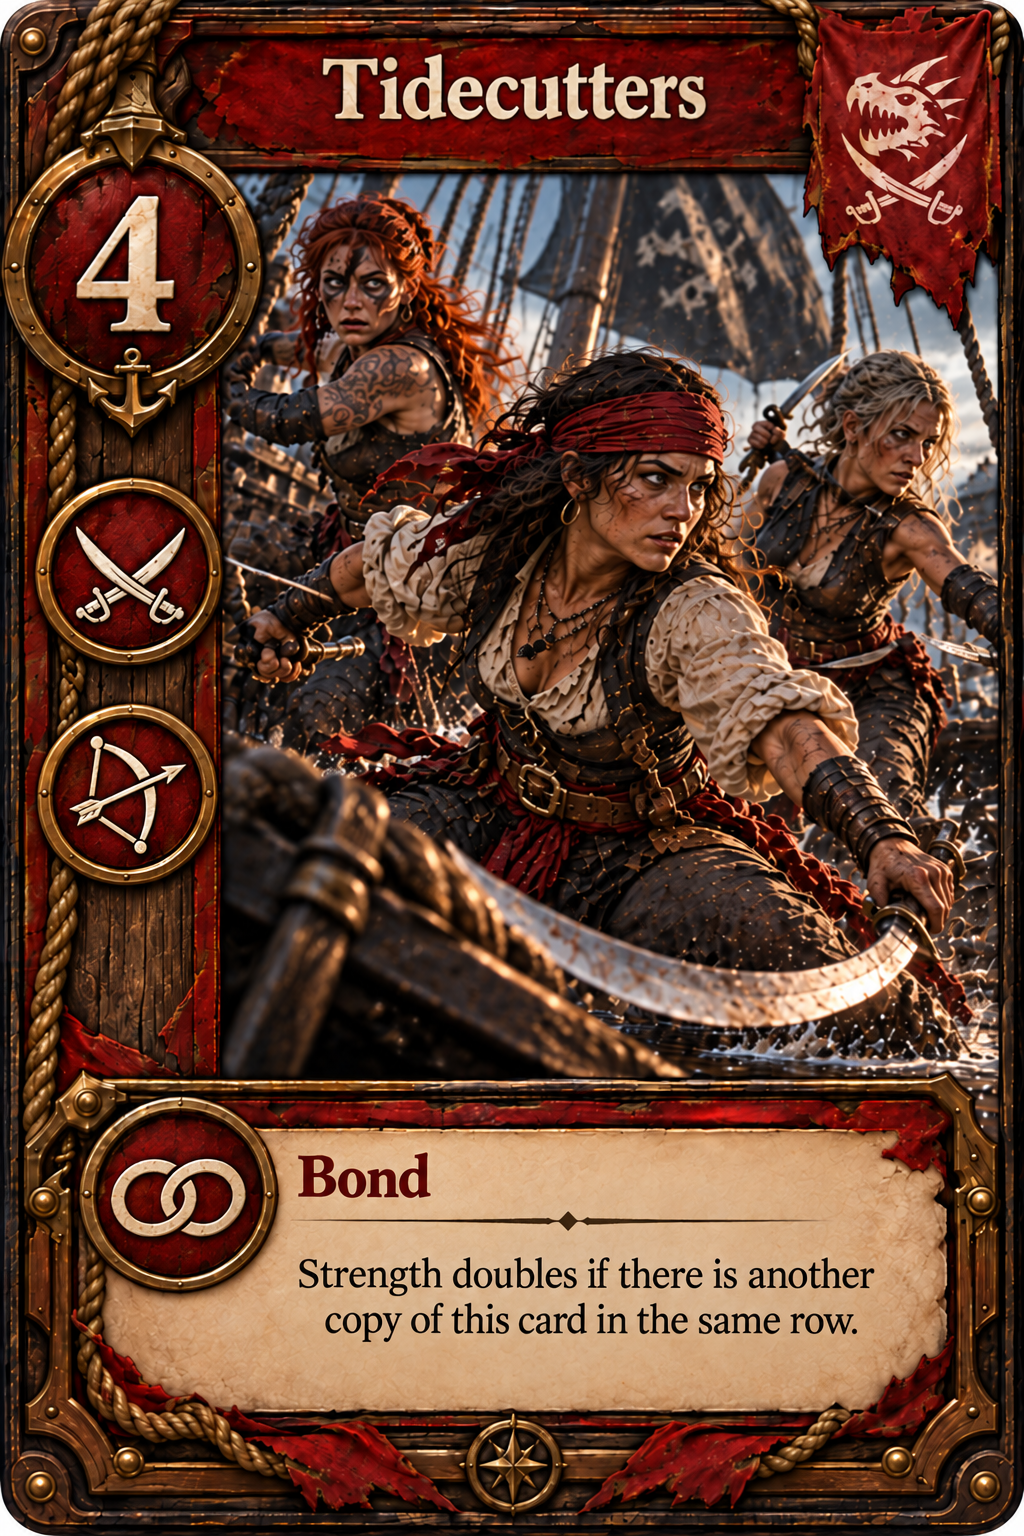
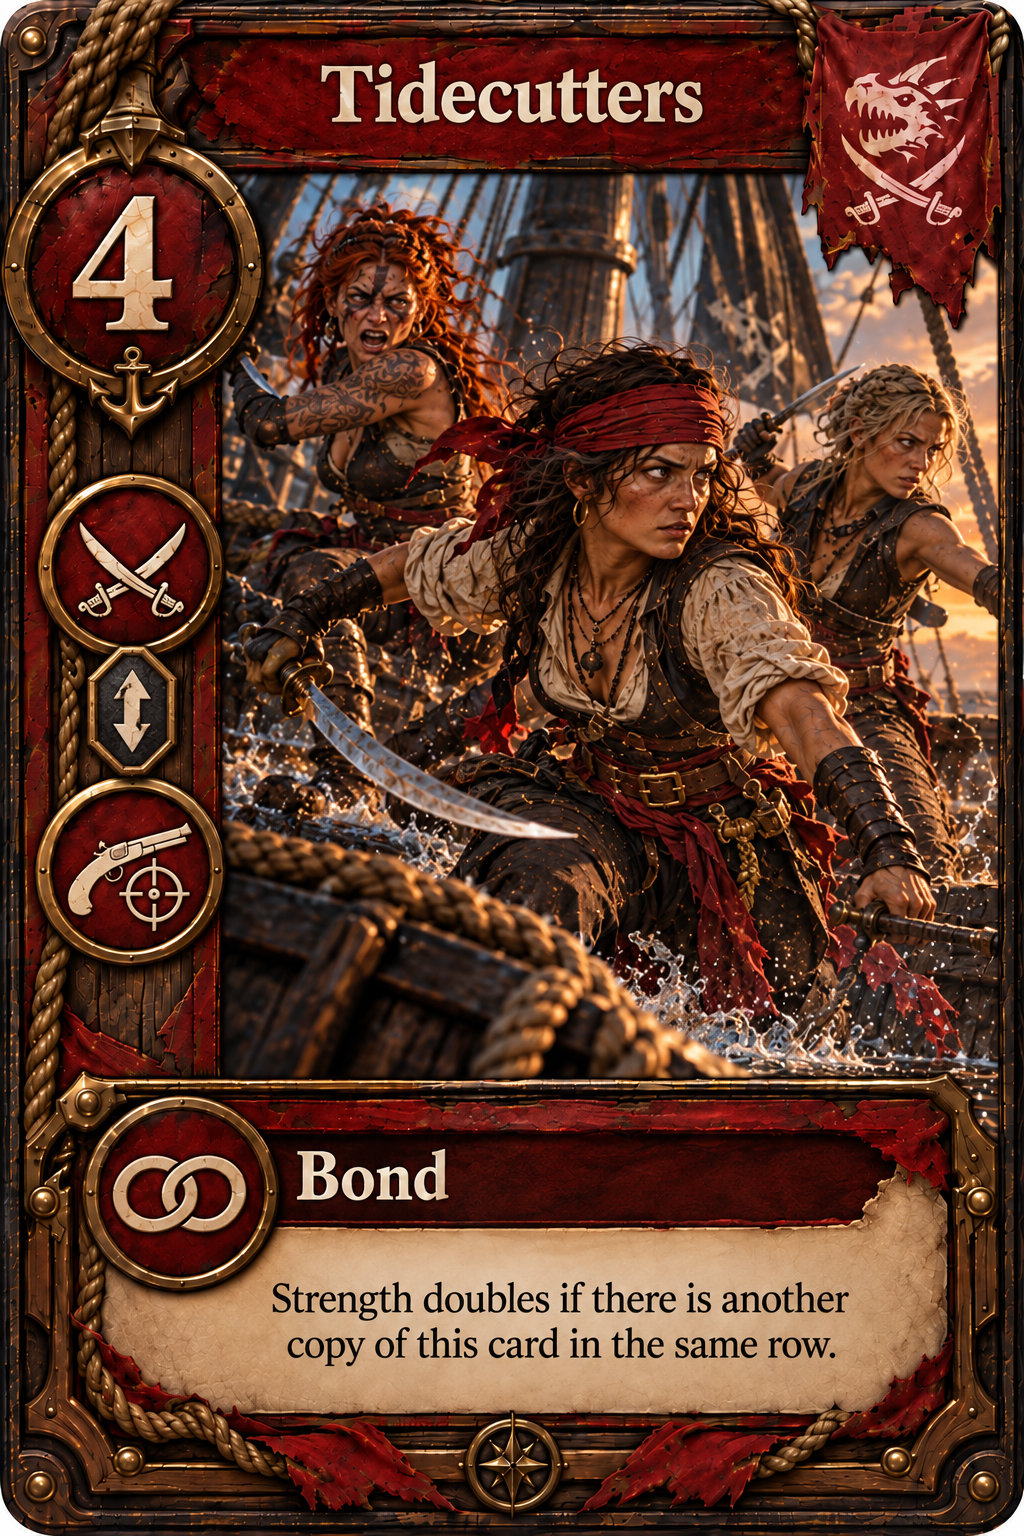
v0.10

diff --git a/src/game/engine.ts b/src/game/engine.ts
@@ -115,6 +115,13 @@ function summonAll(state:GameState,p:0|1,id:string,row:Row,exceptUid?:string){
   while(true){ const c=pullByDefinition(state,p,id); if(!c) break; if(c.uid!==exceptUid) putOnRow(state,p,row,c) }
 }
 function discardSpecial(state:GameState, player:0|1, card:CardInstance){ state.players[player].discard.push(card) }
+function discardBoardUnit(state:GameState, boardSide:0|1, card:CardInstance){
+  // Spy cards belong to the discard pile of the side they were physically on when removed.
+  // This lets that side's Medic revive a Spy that was played against them. Other units
+  // retain their original owner for discard routing, including units moved by bespoke effects.
+  const discardSide:0|1 = def(card).ability==='spy' ? boardSide : card.owner
+  state.players[discardSide].discard.push(card)
+}
 
 export function decoyCandidates(state:GameState, player:0|1=state.activePlayer){
   const out:{row:Row;card:CardInstance}[]=[]
@@ -137,7 +144,7 @@ function resolveScorch(state:GameState, player:0|1){
   const doomed=targets.filter(t=>t.power===max)
   for(const target of doomed){
     const removed=removeByUid(state.players[target.side].rows[target.row],target.card.uid)
-    if(removed) state.players[removed.owner].discard.push(removed)
+    if(removed) discardBoardUnit(state,target.side,removed)
   }
   state.message=`Scorch destroys ${doomed.length} unit${doomed.length===1?'':'s'} at ${max} strength.`
 }
@@ -224,7 +231,7 @@ export function playCard(input:GameState, player:0|1, uidToPlay:string, chosenRo
         for(const c of cards){
           // Sunder destroys units, not board-positioned Special cards such as Decoy.
           if(c.uid===card.uid || isSpecial(def(c))) survivors.push(c)
-          else state.players[c.owner].discard.push(c)
+          else discardBoardUnit(state,boardSide,c)
         }
         state.players[boardSide].rows[row].push(...survivors)
       }
@@ -263,10 +270,18 @@ export function resolveMedic(input:GameState, uidFromDiscard:string):GameState {
   const card=removeByUid(state.players[p].discard,uidFromDiscard)
   if(card && !def(card).unique && !isSpecial(def(card))){
     const d=def(card); const row=d.rows[0]
-    putOnRow(state,p,row,card)
-    if(d.ability==='summon_same') summonAll(state,p,d.id,row,card.uid)
-    if(d.ability==='summon_blackwake') for(const id of ['blackwake-deckhands','blackwake-deckhands']){ const c=pullByDefinition(state,p,id); if(c) putOnRow(state,p,'melee',c) }
-    if(d.ability==='summon_bowrig_crew') for(const id of ['jane-doe','bullrack','mickey']){ const c=pullByDefinition(state,p,id); if(c) putOnRow(state,p,'melee',c) }
+    if(d.ability==='spy') {
+      // A resurrected Spy resolves as though it were played: it goes to the opponent's
+      // battlefield and the Medic's controller draws two cards.
+      putOnRow(state,other(p),row,card)
+      draw(state,p,2)
+      state.message=`Medic revives ${d.name}: it spies for ${state.players[p].name}, who draws 2.`
+    } else {
+      putOnRow(state,p,row,card)
+      if(d.ability==='summon_same') summonAll(state,p,d.id,row,card.uid)
+      if(d.ability==='summon_blackwake') for(const id of ['blackwake-deckhands','blackwake-deckhands']){ const c=pullByDefinition(state,p,id); if(c) putOnRow(state,p,'melee',c) }
+      if(d.ability==='summon_bowrig_crew') for(const id of ['jane-doe','bullrack','mickey']){ const c=pullByDefinition(state,p,id); if(c) putOnRow(state,p,'melee',c) }
+    }
   }
   state.pendingMedic=null
   advanceTurnOrRound(state)
@@ -296,7 +311,7 @@ function finishRound(state:GameState){
   else { state.players[0].roundWins++; state.players[1].roundWins++ }
   for(const side of [0,1] as const) for(const row of ROWS){
     const cards=state.players[side].rows[row].splice(0)
-    for(const c of cards) state.players[c.owner].discard.push(c)
+    for(const c of cards) discardBoardUnit(state,side,c)
     const horn=state.players[side].horns[row]
     if(horn){ state.players[horn.owner].discard.push(horn); state.players[side].horns[row]=null }
   }

diff --git a/src/styles.css b/src/styles.css
@@ -126,3 +126,40 @@
 .horn-slot .card.compact{width:56px;height:82px;box-shadow:0 3px 9px #000a}
 .horn-slot .card.compact:hover{transform:scale(1.22);z-index:12}
 @media(max-width:900px){.board-row{grid-template-columns:58px 54px 1fr 45px}.horn-slot{min-height:94px}.horn-slot .card.compact{width:44px;height:65px}.horn-slot:before{font-size:22px}}
+
+/* v0.11 — larger cards + battlefield crop viewport */
+/* Hands are intentionally generous now; the drawer can be collapsed whenever board space matters. */
+.app-shell.hand-is-open{padding-bottom:365px}
+.hand-area.open{min-height:342px}
+.hand{max-width:1560px;gap:14px;padding:10px 18px 22px}
+.hand .card{width:190px;height:274px}
+.hand .card:hover{transform:translateY(-8px) scale(1.025)}
+
+/* Battlefield cards show only the upper portion of the original PNG. Nothing is altered on disk. */
+.board-row{min-height:154px}
+.row-cards{gap:9px;padding:9px 12px;align-items:center}
+.card.board-crop{width:126px;height:132px;border-radius:9px;overflow:hidden;box-shadow:0 6px 16px #000a;background:#160d09}
+.card.board-crop img{width:100%;height:auto;min-height:0;object-fit:initial;object-position:top center;display:block}
+.card.board-crop:hover{transform:translateY(-4px) scale(1.09);z-index:14}
+.card.board-crop .fallback{justify-content:flex-start;gap:8px}
+.card.board-crop .fallback b{font-size:24px}
+.card.board-crop .power-chip{left:6px;bottom:6px;width:32px;height:32px;font-size:15px;box-shadow:0 2px 8px #0008}
+
+/* Sharpshooter remains corrected when rendered through the cropped battlefield viewport. */
+.card-fractilian-sharpshooter.board-crop img{transform:rotate(-90deg) scale(1.6);transform-origin:center center;object-fit:contain;height:100%;width:100%}
+.card-fractilian-sharpshooter.board-crop:hover img{transform:rotate(-90deg) scale(1.6)}
+
+@media(max-width:1100px){
+  .app-shell.hand-is-open{padding-bottom:325px}
+  .hand-area.open{min-height:300px}
+  .hand .card{width:168px;height:242px}
+  .card.board-crop{width:112px;height:118px}
+  .board-row{min-height:140px}
+}
+@media(max-width:700px){
+  .app-shell.hand-is-open{padding-bottom:285px}
+  .hand-area.open{min-height:260px}
+  .hand .card{width:146px;height:210px}
+  .card.board-crop{width:96px;height:102px}
+  .board-row{min-height:124px}
+}

diff --git a/src/data/fractilian.ts b/src/data/fractilian.ts
@@ -5,7 +5,7 @@ export const FRACTILIAN_CARDS: CardDefinition[] = [
   { id:'poor-fucking-pirates', name:'Poor Fucking Pirates', strength:1, rows:['melee'], ability:'bond', copies:3, image:'/cards/fractilian/poor-fucking-pirates.png', abilityTitle:'Bond', abilityText:'Strength doubles if there is another copy of this card in the same row.' },
   { id:'deck-duelist', name:'Deck Duelist', strength:5, rows:['melee','ranged'], ability:'none', copies:2, image:'/cards/fractilian/deck-duelist.png' },
   { id:'blackwake-bosun', name:'Blackwake Bosun', strength:4, rows:['melee'], ability:'summon_blackwake', copies:1, image:'/cards/fractilian/blackwake-bosun.png', abilityTitle:'Summon', abilityText:'Play both Blackwake Deckhands from your hand or deck.' },
-  { id:'blackwake-deckhands', name:'Blackwake Deckhands', strength:3, rows:['melee'], ability:'none', copies:2, image:'/cards/fractilian/blackwake-deckhands.png' },
+  { id:'blackwake-deckhands', name:'Blackwake Deckhands', strength:2, rows:['melee'], ability:'none', copies:2, image:'/cards/fractilian/blackwake-deckhands.png' },
   { id:'tidecutters', name:'Tidecutters', strength:4, rows:['melee','ranged'], ability:'bond', copies:3, image:'/cards/fractilian/tidecutters.png', abilityTitle:'Bond', abilityText:'Strength doubles if there is another copy of this card in the same row.' },
   { id:'cutlass-corsair', name:'Cutlass Corsair', strength:4, rows:['melee','ranged'], ability:'none', copies:2, image:'/cards/fractilian/cutlass-corsair.png' },
   { id:'blackpowder-raider', name:'Blackpowder Raider', strength:5, rows:['ranged'], ability:'none', copies:2, image:'/cards/fractilian/blackpowder-raider.png' },

diff --git a/src/components/CardView.tsx b/src/components/CardView.tsx
@@ -1,9 +1,9 @@
 import type { CardInstance } from '../game/types'
 import { CARD_MAP } from '../data/fractilian'
 
-export function CardView({card, onClick, selected=false, compact=false, power}:{card:CardInstance,onClick?:()=>void,selected?:boolean,compact?:boolean,power?:number}){
+export function CardView({card, onClick, selected=false, compact=false, boardCrop=false, power}:{card:CardInstance,onClick?:()=>void,selected?:boolean,compact?:boolean,boardCrop?:boolean,power?:number}){
   const d=CARD_MAP[card.definitionId]
-  return <button className={`card card-${d.id} ${compact?'compact':''} ${selected?'selected':''}`} onClick={onClick} title={`${d.name} — ${d.strength}`}>
+  return <button className={`card card-${d.id} ${compact?'compact':''} ${boardCrop?'board-crop':''} ${selected?'selected':''}`} onClick={onClick} title={`${d.name} — ${d.strength}`}>
     <img src={d.image} alt={d.name} onError={(e:any)=>{e.currentTarget.style.display='none'; e.currentTarget.nextElementSibling?.classList.add('show')}} />
     <span className="fallback"><strong>{d.name}</strong><b>{d.strength}</b><small>{d.abilityTitle ?? d.rows.join(' / ')}</small></span>
     {typeof power==='number' && <span className="power-chip">{power}</span>}

diff --git a/src/components/BoardRow.tsx b/src/components/BoardRow.tsx
@@ -8,7 +8,7 @@ export function BoardRow({state,side,row,onInspect}:{state:GameState,side:0|1,ro
   return <section className={`board-row ${state.weather[side][row]?'weathered':''}`}>
     <div className="row-label"><strong>{names[row]}</strong><span>{state.weather[side][row] ?? ''}</span></div>
     <div className={`horn-slot ${state.players[side].horns[row]?'occupied':''}`}>{state.players[side].horns[row]?<CardView card={state.players[side].horns[row]!} compact onClick={()=>onInspect?.(state.players[side].horns[row]!)} />:<><span>Horn</span><small>empty</small></>}</div>
-    <div className="row-cards">{cards.map(c=><CardView key={c.uid} card={c} compact power={cardPower(state,side,row,c)} onClick={()=>onInspect?.(c)} />)}</div>
+    <div className="row-cards">{cards.map(c=><CardView key={c.uid} card={c} boardCrop power={cardPower(state,side,row,c)} onClick={()=>onInspect?.(c)} />)}</div>
     <div className="row-score">{rowScore(state,side,row)}</div>
   </section>
 }

diff --git a/DEVELOPMENT_NOTES.md b/DEVELOPMENT_NOTES.md
@@ -54,3 +54,9 @@ A full Vite build was not available in this environment because npm dependencies
 - `special_clear_skies` clears `GameState.weather` only; it never removes Horns.
 - `special_horn` requires a row target and cannot be played into a row whose Horn slot is already occupied.
 - NPC random deck generation automatically includes both new Specials because they are non-Legendary Special cards.
+
+## v0.11
+- Spy discard routing now follows the battlefield side: a Spy left/destroyed on the opponent's board enters that opponent's discard pile, so their Medic can target it.
+- Medics can revive a Spy from their discard; the Spy resolves onto the enemy battlefield and draws 2 for the Medic's controller.
+- Hand cards are larger.
+- Battlefield unit cards use a larger cropped viewport showing the top/art/stat portion of the unchanged card PNG; clicking still opens the full card.

diff --git a/README.md b/README.md
@@ -56,3 +56,6 @@ AI and NPC deck generation are in `src/game/ai.ts`.
 - Commander's Horn occupies a dedicated slot on one chosen row and doubles the final Strength of every non-Legendary unit in that row. One Horn maximum per row.
 - Strength resolution is now: printed Strength → Weather base setter → Bond → Morale → Commander's Horn ×2.
 - Horns remain in their row slot until the round ends, then go to their owner's discard pile.
+
+### v0.11 visibility + Spy discard rules
+Battlefield unit cards now render as a larger cropped viewport of the original card image, keeping the name/art/stat area visible while hiding the lower rules panel. The full card remains available by clicking it. Spy cards that end up on an opponent's battlefield enter that opponent's discard pile when removed, allowing that opponent's Medic to revive them.
